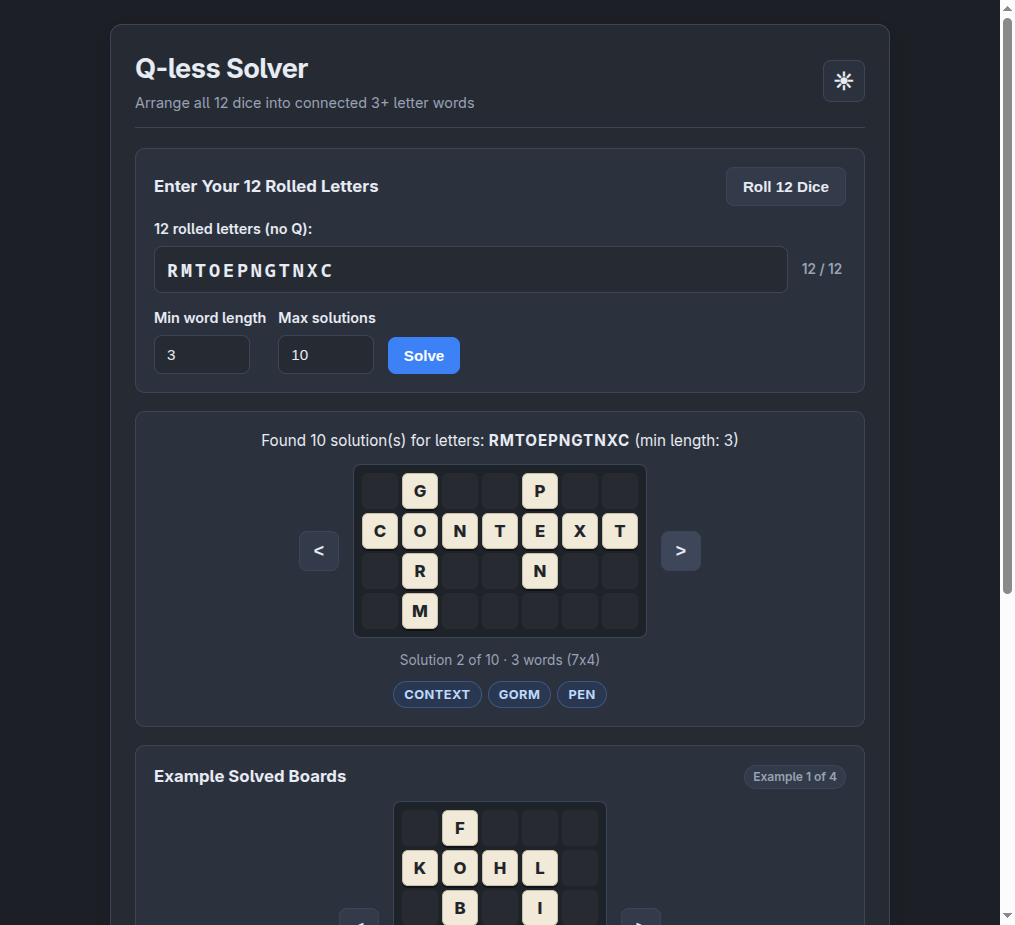
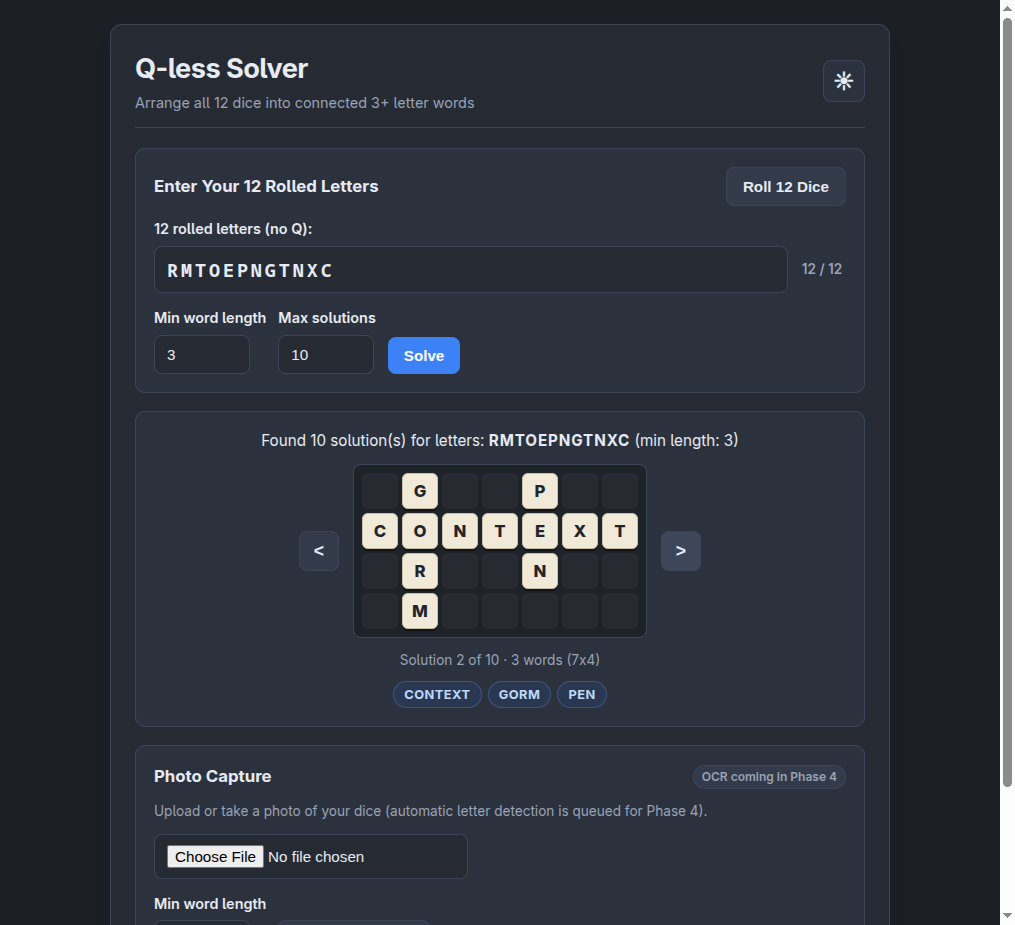
Remove Example Solved Boards section and refresh PR screenshots

diff --git a/web/templates/index.html b/web/templates/index.html
@@ -453,30 +453,6 @@
             <p class="results-placeholder">Enter 12 letters or roll the dice, then click <strong>Solve</strong>.</p>
         </div>
 
-        {% if default_grids %}
-        <section id="default-grid-wrapper" class="card">
-            <div class="card-header">
-                <h3>Example Solved Boards</h3>
-                <span id="default-grid-counter" class="pill-muted">Example 1 of {{ default_grids|length }}</span>
-            </div>
-            <div class="carousel-stage">
-                <button type="button" id="prev-solution" class="nav-arrow secondary" aria-label="Previous solution">&lt;</button>
-                <div id="solution-grid" class="solution-grid">
-                    {% for row in default_grids[0] %}
-                    <div class="grid-row">
-                        {% for ch in row %}
-                        <div class="grid-cell {% if ch == '.' %}empty{% endif %}">
-                            {{ '' if ch == '.' else ch }}
-                        </div>
-                        {% endfor %}
-                    </div>
-                    {% endfor %}
-                </div>
-                <button type="button" id="next-solution" class="nav-arrow secondary" aria-label="Next solution">&gt;</button>
-            </div>
-        </section>
-        {% endif %}
-
         <section class="card">
             <div class="card-header">
                 <h3>Photo Capture</h3>
@@ -552,42 +528,6 @@
                 rollButton.disabled = false;
             }
         });
-
-        {% if default_grids %}
-        const defaultGrids = {{ default_grids|tojson }};
-        let currentGridIndex = 0;
-        const defaultCounter = document.getElementById('default-grid-counter');
-
-        function renderDefaultGrid(idx) {
-            const grid = defaultGrids[idx];
-            const container = document.getElementById('solution-grid');
-            container.innerHTML = '';
-            grid.forEach(row => {
-                const rowDiv = document.createElement('div');
-                rowDiv.className = 'grid-row';
-                for (const ch of row) {
-                    const cell = document.createElement('div');
-                    cell.className = 'grid-cell' + (ch === '.' ? ' empty' : '');
-                    cell.textContent = ch === '.' ? '' : ch;
-                    rowDiv.appendChild(cell);
-                }
-                container.appendChild(rowDiv);
-            });
-            if (defaultCounter) {
-                defaultCounter.textContent = `Example ${idx + 1} of ${defaultGrids.length}`;
-            }
-        }
-
-        document.getElementById('prev-solution').addEventListener('click', () => {
-            currentGridIndex = (currentGridIndex - 1 + defaultGrids.length) % defaultGrids.length;
-            renderDefaultGrid(currentGridIndex);
-        });
-
-        document.getElementById('next-solution').addEventListener('click', () => {
-            currentGridIndex = (currentGridIndex + 1) % defaultGrids.length;
-            renderDefaultGrid(currentGridIndex);
-        });
-        {% endif %}
     </script>
 </body>
 </html>

diff --git a/web/main.py b/web/main.py
@@ -10,40 +10,6 @@ from fastapi.responses import HTMLResponse, JSONResponse
 from fastapi.templating import Jinja2Templates
 from pydantic import BaseModel, Field
 
-DEFAULT_GRIDS = [
-    [
-        ".f...",
-        "kohl.",
-        ".b.i.",
-        "...p.",
-        "..him",
-        "...d.",
-    ],
-    [
-        ".....w",
-        ".....r",
-        ".l...a",
-        "pantry",
-        ".m....",
-        ".b....",
-    ],
-    [
-        "....s.",
-        "....h.",
-        "....a.",
-        ".l..k.",
-        "mildew",
-        ".d....",
-    ],
-    [
-        ".p...",
-        ".r.n.",
-        "comet",
-        ".n.x.",
-        ".g.t.",
-    ],
-]
-
 # Add the cli directory to the Python path so qless_solver package is importable
 project_root = os.path.abspath(os.path.join(os.path.dirname(__file__), ".."))
 cli_path = os.path.join(project_root, "cli")
@@ -135,9 +101,7 @@ def _serialize_solutions(solutions: list[GridSolution]) -> list[dict[str, object
 @app.get("/", response_class=HTMLResponse)
 async def read_index(request: Request) -> HTMLResponse:
     """Serves the main HTML page."""
-    return templates.TemplateResponse(
-        request, "index.html", {"default_grids": DEFAULT_GRIDS}
-    )
+    return templates.TemplateResponse(request, "index.html")
 
 
 @app.get("/roll/", tags=["API"])

diff --git a/tests/e2e/test_web_api.py b/tests/e2e/test_web_api.py
@@ -30,6 +30,9 @@ def test_read_root_html(client: TestClient) -> None:
     assert response.status_code == 200
     assert response.headers["content-type"] == "text/html; charset=utf-8"
     assert "<title>Q-less Solver</title>" in response.text
+    assert 'id="dark-mode-toggle"' in response.text
+    assert 'id="roll-dice-btn"' in response.text
+    assert 'id="default-grid-wrapper"' not in response.text
 
 
 def test_roll_endpoint(client: TestClient) -> None:
